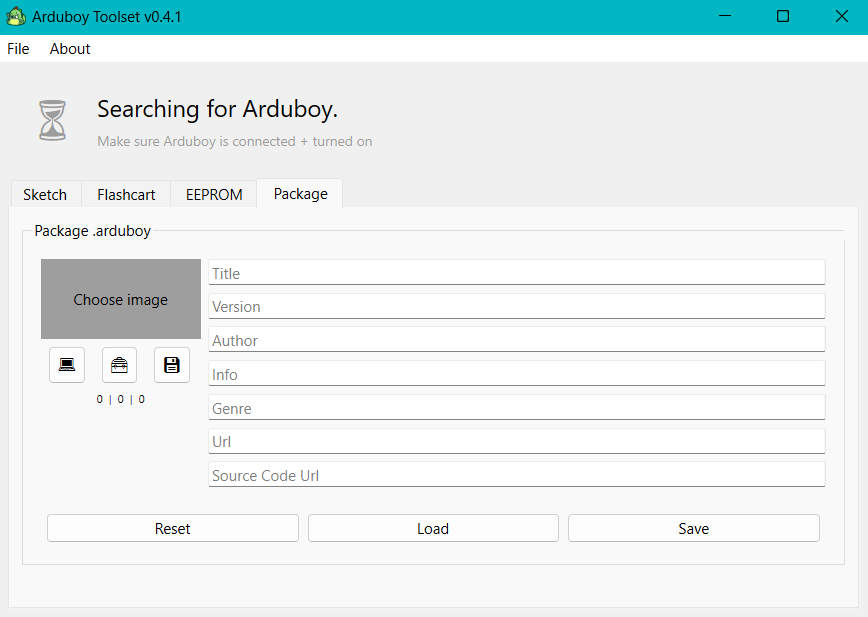
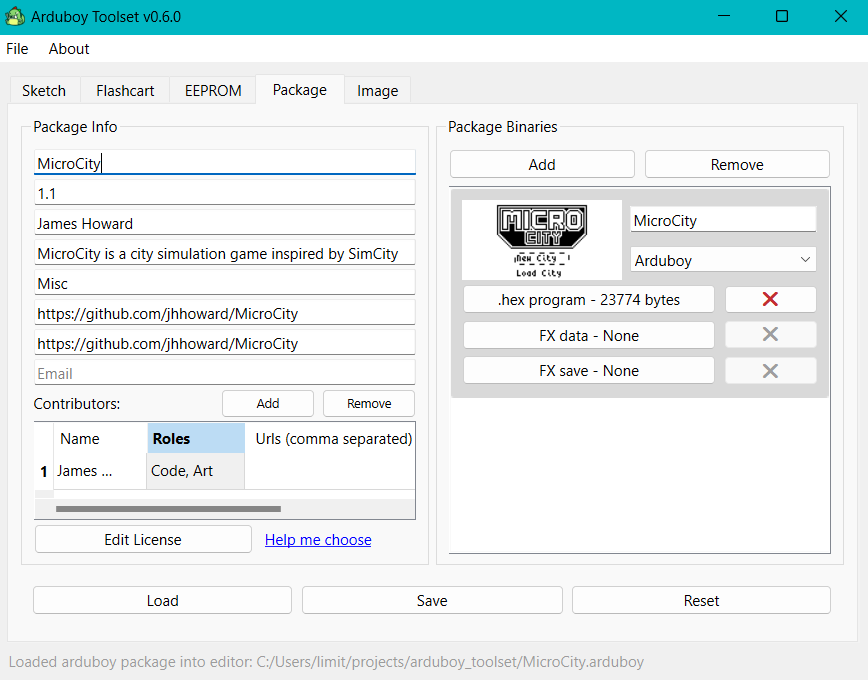
Updated screenshots, closes #35

diff --git a/CHANGELOG.md b/CHANGELOG.md
@@ -1,3 +1,19 @@
+## 0.6.0
+
+* Updated arduboy package import and creator to support the proper "v3" format
+* Updated arduboy package editor to be significantly more robust
+* Support licensing for arduboy packages
+* Arduboy package exports use new, backwards compatible "v4" format (see bottom of post)
+* Moved elements around on main gui for hopefully a more logical flow
+* Added last performed action to bottom of main gui
+* Clicking on last performed action opens a debug window with all actions performed this session
+* Added FAQ section (feel free to suggest more for this)
+* Updated help with more links to external tools and information on Arduboy
+* Added lots of unit tests
+
+Please see https://community.arduboy.com/t/arduboy-toolset/11227/161 for information on updated arduboy package format
+
+
 ## 0.5.0
 
 * Added visual alert when info section will get cut off in cart builder (thank you @steka)
